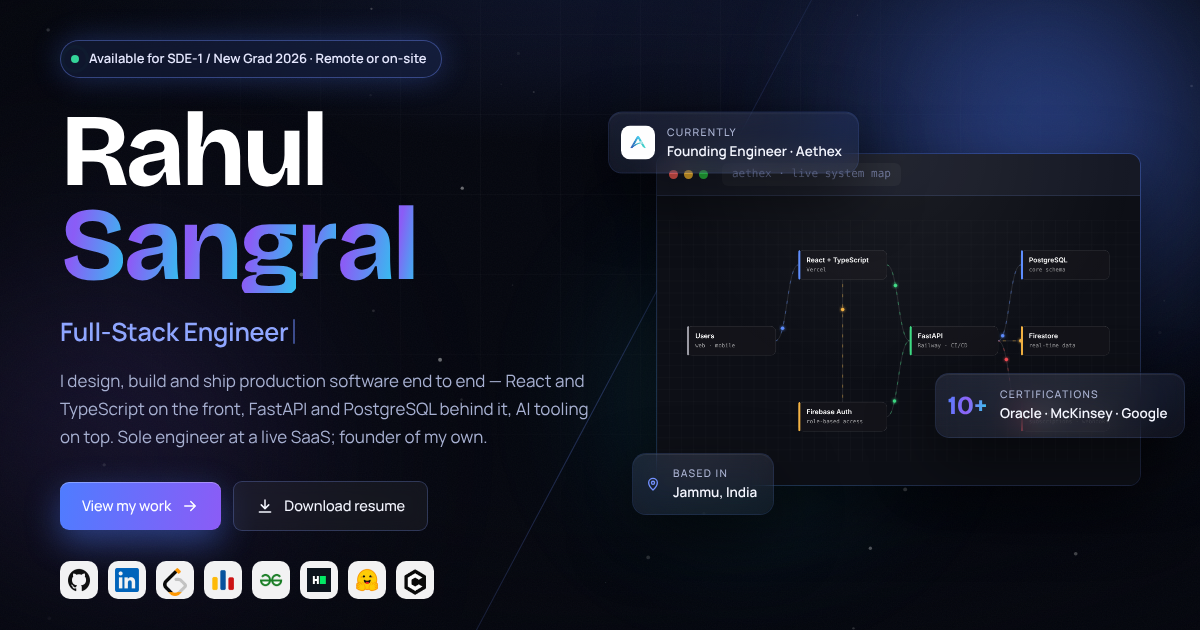
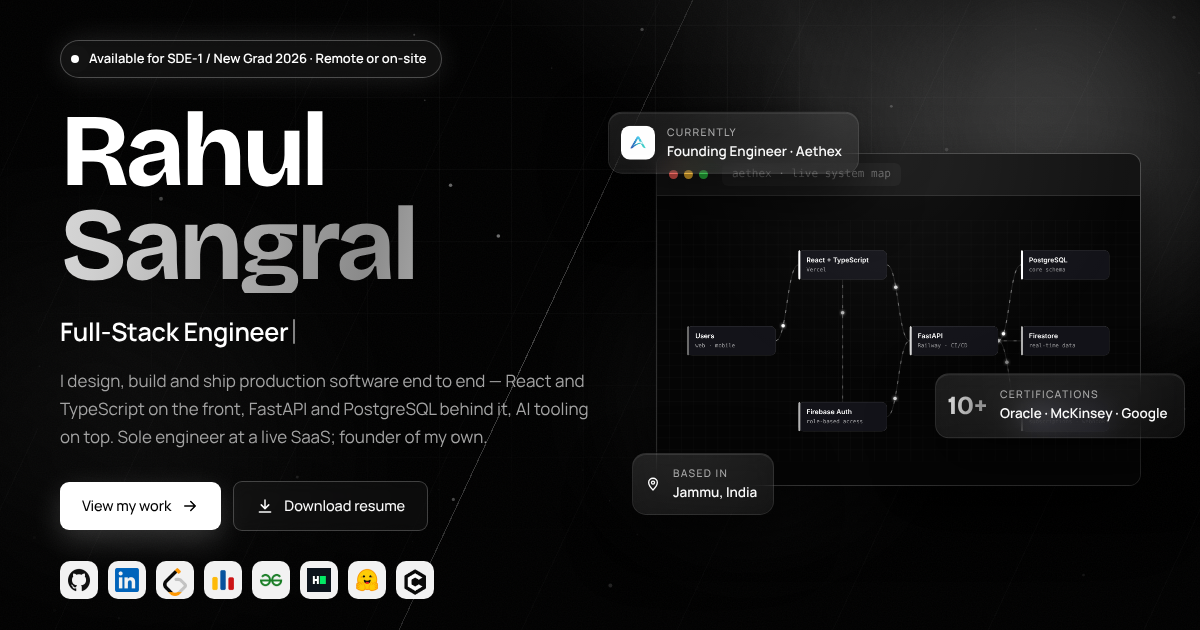
Black and white system

diff --git a/src/styles.css b/src/styles.css
@@ -974,3 +974,86 @@ body { background: radial-gradient(ellipse 90% 60% at 50% -10%, #121a3a 0%, var(
 .live-mini:hover { transform: translateY(-3px); border-color: var(--line-2) !important; }
 @media (max-width: 1000px) { .live-grid { grid-template-columns: 1fr; } .live-rest { grid-template-columns: repeat(2, 1fr); } }
 @media (max-width: 480px) { .live-rest { grid-template-columns: 1fr; } }
+
+/* ═══════════════════════════════════════════════════════════════
+   MONOCHROME — black & white system, richer background motion
+   ═══════════════════════════════════════════════════════════════ */
+:root {
+  --bg: #000; --bg-2: #0a0a0a; --bg-3: #111;
+  --g1: #ffffff; --g2: #c9c9c9; --g3: #7d7d7d;
+  --accent: #ffffff; --accent-2: #bdbdbd; --accent-soft: rgba(255,255,255,.1);
+  --line: rgba(255,255,255,.1); --line-2: rgba(255,255,255,.22);
+  --text: #fafafa; --muted: #a3a3a3; --dim: #6b6b6b;
+  --green: #ffffff;
+}
+body { background: #000; }
+.bg-vignette { background: radial-gradient(ellipse 80% 70% at 50% 40%, transparent 40%, rgba(0,0,0,.9) 100%); }
+.bg-grid { opacity: .5; background-image: linear-gradient(rgba(255,255,255,.07) 1px, transparent 1px), linear-gradient(90deg, rgba(255,255,255,.07) 1px, transparent 1px); background-size: 72px 72px; animation: gridPan 30s linear infinite; }
+.bg-mesh { filter: none !important; }
+.blob { mix-blend-mode: screen; opacity: .5; filter: blur(90px); }
+.blob--a { background: radial-gradient(circle, rgba(255,255,255,.35), transparent 62%); animation: blobA 26s ease-in-out infinite alternate; }
+.blob--b { background: radial-gradient(circle, rgba(255,255,255,.22), transparent 62%); animation: blobB 32s ease-in-out infinite alternate; }
+.hero-orb--a { background: radial-gradient(circle, rgba(255,255,255,.45), transparent 62%); opacity: .5; }
+.hero-orb--b { background: radial-gradient(circle, rgba(255,255,255,.25), transparent 62%); opacity: .4; }
+.hero-beam { background: linear-gradient(180deg, transparent, rgba(255,255,255,.6), transparent); opacity: .4; animation: beamSweep 12s ease-in-out infinite alternate; }
+@keyframes beamSweep { from { transform: rotate(24deg) translateX(-10vw); } to { transform: rotate(32deg) translateX(14vw); } }
+.hero-bg::before { content: ''; position: absolute; inset: -30%; background: conic-gradient(from 0deg at 65% 35%, transparent 0 78%, rgba(255,255,255,.08) 86%, transparent 94%); animation: spin 40s linear infinite; }
+.hero-bg::after { content: ''; position: absolute; inset: 0; background: repeating-linear-gradient(115deg, transparent 0 140px, rgba(255,255,255,.025) 140px 141px); animation: linesDrift 30s linear infinite; }
+@keyframes linesDrift { to { background-position: 400px 0; } }
+.section--glow { background: radial-gradient(ellipse 70% 50% at 50% 0%, rgba(255,255,255,.07), transparent 70%); }
+
+/* text & gradients */
+.grad-text, .hero-title .grad, .hero-title .grad span, .float-chip b, .live-stat b { background-image: linear-gradient(100deg, #fff 0%, #cfcfcf 40%, #8a8a8a 70%, #fff 100%); background-size: 250% 100%; -webkit-background-clip: text; background-clip: text; color: transparent !important; -webkit-text-fill-color: transparent !important; animation: shimmer 8s linear infinite; }
+.hero-title .surname { display: inline-block; }
+.kicker, .cell-kicker, .hero-role .typewriter, .cert-verify, .fact-line svg, .float-chip svg, .live-link:hover { color: #fff; }
+.kicker b { color: var(--dim); }
+.eyebrow { background: rgba(255,255,255,.06); border-color: rgba(255,255,255,.25); box-shadow: 0 0 30px rgba(255,255,255,.12); color: #fff; }
+.pulse, .pulse::after, .badge--live::before, .live-pill.is-live::before, .tl-dot--live { background-color: #fff; border-color: #fff; }
+.badge--live, .live-pill.is-live { background: rgba(255,255,255,.1); color: #fff; }
+.badge--live::before { background: #fff; box-shadow: 0 0 0 0 rgba(255,255,255,.6); animation: livePulseW 1.8s infinite; }
+@keyframes livePulseW { 0% { box-shadow: 0 0 0 0 rgba(255,255,255,.6); } 70% { box-shadow: 0 0 0 8px rgba(255,255,255,0); } 100% { box-shadow: 0 0 0 0 rgba(255,255,255,0); } }
+.pulse::after { border-color: #fff; }
+
+/* surfaces */
+.glass { background: linear-gradient(160deg, rgba(255,255,255,.07), rgba(255,255,255,.025)) !important; border-color: rgba(255,255,255,.12) !important; box-shadow: 0 1px 0 rgba(255,255,255,.1) inset, 0 24px 60px rgba(0,0,0,.6); }
+.glow-border::before { background: conic-gradient(from var(--ang, 0deg), transparent 0 55%, rgba(255,255,255,.95) 75%, transparent 100%); }
+.btn--primary { background: #fff; color: #000; box-shadow: 0 10px 30px rgba(255,255,255,.18); }
+.btn--primary:hover { background: #e6e6e6; box-shadow: 0 14px 40px rgba(255,255,255,.28); filter: none; }
+.btn--primary::after { background: linear-gradient(110deg, transparent 35%, rgba(0,0,0,.08) 50%, transparent 65%); }
+.btn--ghost { background: rgba(255,255,255,.04); border-color: rgba(255,255,255,.22); }
+.btn--ghost:hover { background: rgba(255,255,255,.1); border-color: rgba(255,255,255,.4); }
+.nav-links button.is-active::after, .rule { background: #fff; }
+.nav--solid { background: rgba(0,0,0,.78); }
+.scroll-progress, .timeline-track span { background: linear-gradient(90deg, #fff, #8a8a8a); }
+.timeline-track span { background: linear-gradient(180deg, #fff, #555); }
+.tl-dot--live { box-shadow: 0 0 0 4px #000, 0 0 18px rgba(255,255,255,.7); }
+.chips li:hover { background: rgba(255,255,255,.12); border-color: rgba(255,255,255,.3); }
+.about-tags span { background: rgba(255,255,255,.08); border-color: rgba(255,255,255,.14); color: #e6e6e6; }
+.project::before { background: radial-gradient(500px circle at 20% 0%, rgba(255,255,255,.14), transparent 55%); }
+.project:hover { border-color: rgba(255,255,255,.4) !important; box-shadow: 0 30px 70px rgba(0,0,0,.6), 0 0 60px rgba(255,255,255,.08); }
+.project-art { background: linear-gradient(135deg, rgba(255,255,255,.08), transparent 60%); }
+.skill-swatch { background: linear-gradient(135deg, #fff, #666); box-shadow: 0 0 14px rgba(255,255,255,.5); }
+.skill-group:hover { border-color: rgba(255,255,255,.35) !important; }
+.cert:hover { border-color: rgba(255,255,255,.45) !important; box-shadow: 0 20px 50px rgba(0,0,0,.5), 0 0 40px rgba(255,255,255,.08); }
+.cta-banner { background: linear-gradient(120deg, rgba(255,255,255,.14), rgba(255,255,255,.06) 50%, rgba(255,255,255,.1)); border-color: rgba(255,255,255,.2); box-shadow: 0 40px 100px rgba(255,255,255,.06); }
+.cta-banner::before { background: conic-gradient(from 0deg, transparent, rgba(255,255,255,.12), transparent 30%); }
+.cta-copy .kicker, .cta-copy p { color: #e6e6e6; }
+.cta-actions .btn--ghost { background: rgba(0,0,0,.35); border-color: rgba(255,255,255,.35); }
+.field input:focus, .field textarea:focus { border-color: #fff; }
+.field input:focus + span, .field input:not(:placeholder-shown) + span, .field textarea:focus + span, .field textarea:not(:placeholder-shown) + span { color: #fff; }
+.contact-row:hover { border-color: rgba(255,255,255,.45) !important; }
+.contact-row:hover .contact-arrow { color: #fff; }
+.profiles-row a:hover, .back-top:hover { background: #fff; color: #000; border-color: #fff; }
+.shot { background: #0a0a0a; }
+.shot-bar { background: #141414; }
+.diagram { background: #050505; }
+.live-stat { background: rgba(255,255,255,.05); }
+.live-mini:hover { border-color: rgba(255,255,255,.35) !important; }
+.logo-bar-item { opacity: .95; }
+.fact-icon { background: rgba(255,255,255,.08); color: #fff; }
+.outcome { border-left-color: #fff; background: rgba(255,255,255,.06); }
+.modal-cols a { color: #fff; }
+.footer { background: linear-gradient(180deg, transparent, rgba(255,255,255,.04)); }
+.cursor-glow { background: radial-gradient(circle, rgba(255,255,255,.08), rgba(255,255,255,.02) 40%, transparent 65%); }
+.photo-ring { background: linear-gradient(135deg, rgba(255,255,255,.18), transparent 40%, transparent 60%, rgba(255,255,255,.12)); }
+@media (prefers-reduced-motion: reduce) { .hero-bg::before, .hero-bg::after, .hero-beam, .bg-grid { animation: none !important; } }

diff --git a/index.html b/index.html
@@ -5,7 +5,7 @@
     <meta name="viewport" content="width=device-width, initial-scale=1.0, viewport-fit=cover" />
     <title>Rahul Sangral — Full-Stack Engineer & AI Developer</title>
     <meta name="description" content="Rahul Sangral — Full-Stack Engineer & AI Developer. Founding engineer at Aethex. React, FastAPI, PostgreSQL, AI tooling. Available for SDE-1 / New Grad 2026 roles." />
-    <meta name="theme-color" content="#0b0c10" />
+    <meta name="theme-color" content="#000000" />
     <meta property="og:title" content="Rahul Sangral — Full-Stack Engineer & AI Developer" />
     <meta property="og:description" content="Founding engineer shipping production SaaS end to end. Projects, experience and skills — available for SDE-1 / New Grad 2026 roles." />
     <meta property="og:type" content="website" />

diff --git a/src/components/Hero.jsx b/src/components/Hero.jsx
@@ -42,7 +42,9 @@ export default function Hero() {
           <h1 className="hero-title">
             <SplitText text="Rahul" delay={0.3} stagger={0.05} />
             <br />
-            <SplitText text="Sangral" delay={0.5} stagger={0.05} className="grad" />
+            <motion.span className="grad surname" initial={{ opacity: 0, y: 24 }} animate={{ opacity: 1, y: 0 }} transition={{ delay: 0.55, duration: 0.9, ease: [0.2, 0.8, 0.2, 1] }}>
+              Sangral
+            </motion.span>
           </h1>
           <motion.p className="hero-role" {...up(2)}>
             <Typewriter phrases={['Full-Stack Engineer', 'AI Developer', 'Founding Engineer @ Aethex', 'Founder @ Zyphix']} speed={60} pause={2200} />

diff --git a/src/components/Diagram.jsx b/src/components/Diagram.jsx
@@ -61,7 +61,7 @@ export const diagrams = {
 }
 
 const tones = {
-  blue: '#5b8cff', green: '#3ddc84', amber: '#f5b342', red: '#ff4d57', muted: '#9a9aa3',
+  blue: '#ffffff', green: '#d9d9d9', amber: '#b3b3b3', red: '#8c8c8c', muted: '#6b6b6b',
 }
 
 const W = 960, H = 480, NW = 176, NH = 58
